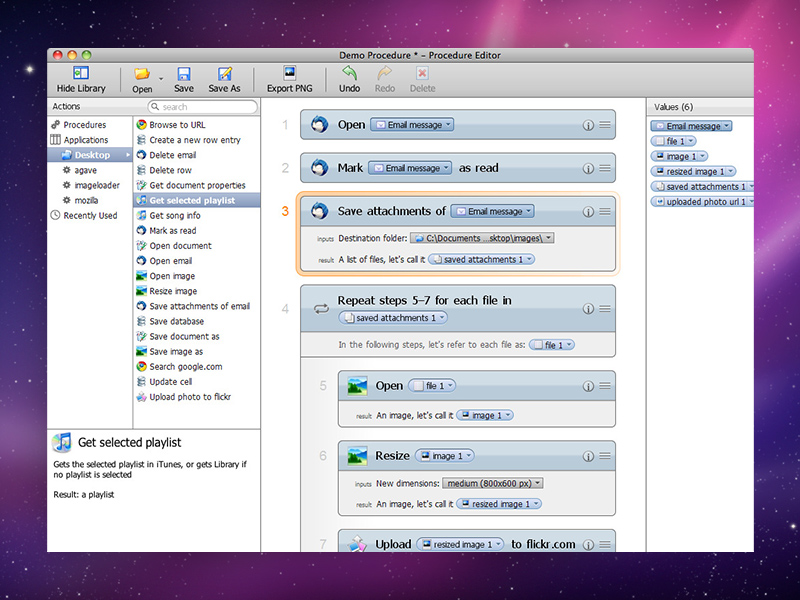
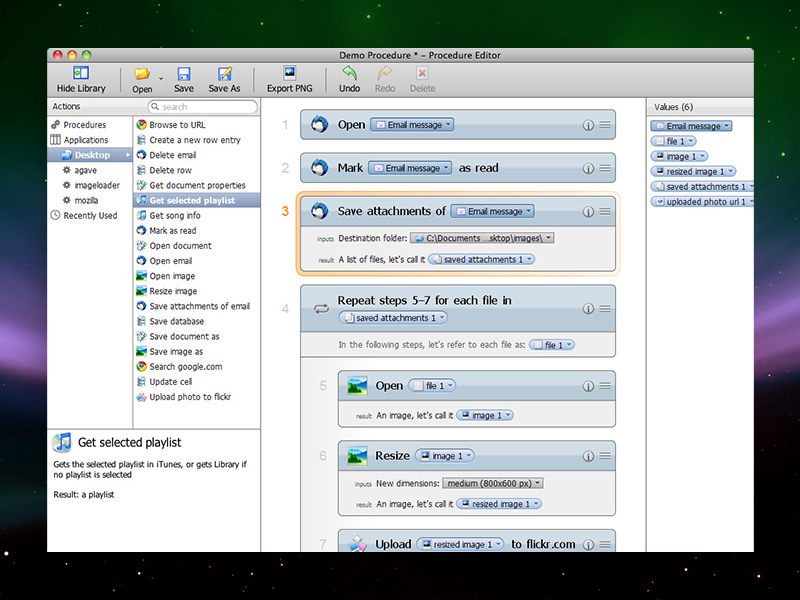
update Adept images

Changed region(s): [[0.0, 0.0, 1.0, 1.0]]

diff --git a/portfolio/adept.html b/portfolio/adept.html
@@ -22,7 +22,7 @@
       <div class="row">
         <div class="col">
           <figure class="figure mb-0">
-            <img class="img-fluid figure-img border" src="https://via.placeholder.com/1600x900.png">
+            <img class="img-fluid figure-img border" src="/images/adept/desktop.jpg">
           </figure>
         </div>
       </div>
@@ -110,7 +110,7 @@
         </div>
         <div class="col-md">
           <figure class="figure">
-            <img class="img-fluid figure-img border" src="/images/adept/photo.png">
+            <img class="img-fluid figure-img border" src="/images/adept/paper.jpg">
           </figure>
         </div>
         <div class="col-md">
@@ -128,17 +128,17 @@
         </div>
         <div class="col-sm">
           <figure class="figure">
-            <a data-lightbox="answers" href="https://via.placeholder.com/900x480.png"><img class="img-fluid figure-img border" src="https://via.placeholder.com/900x480.png"></a>
+            <a data-lightbox="answers" href="/images/adept/desktop.jpg"><img class="img-fluid figure-img border" src="/images/adept/desktop.jpg"></a>
           </figure>
         </div>
         <div class="col-sm">
           <figure class="figure">
-            <a data-lightbox="answers" href="https://via.placeholder.com/900x480.png"><img class="img-fluid figure-img border" src="https://via.placeholder.com/900x480.png"></a>
+            <img class="img-fluid figure-img border" src="/images/adept/army.jpg">
           </figure>
         </div>
         <div class="col-12">
           <p>
-            I implemented a semi-functional prototype of the editor using JavaFX. We conducted three rounds of user studies with office workers and US Army personnel, iterating on the design each time. The prototype not only let us test interactions like drag-and-drop and inline feedback, but it also enabled “Wizard of Oz”-style testing of the learning-by-demonstration model: I would watch the user perform a task, quickly build a procedure based on what the user did, and then present that procedure to them as the output of the AI, ready for editing.
+            I implemented a functional prototype of the editor using JavaFX. We conducted three rounds of user studies with office workers and US Army personnel, iterating on the design each time. The prototype not only let us test interactions like drag-and-drop and inline feedback, but it also enabled “Wizard of Oz”-style testing of the learning-by-demonstration model: I would watch the user perform a task, quickly build a procedure based on what the user did, and then present that procedure to them as the output of the AI, ready for editing.
           </p>
         </div>
       </div>
